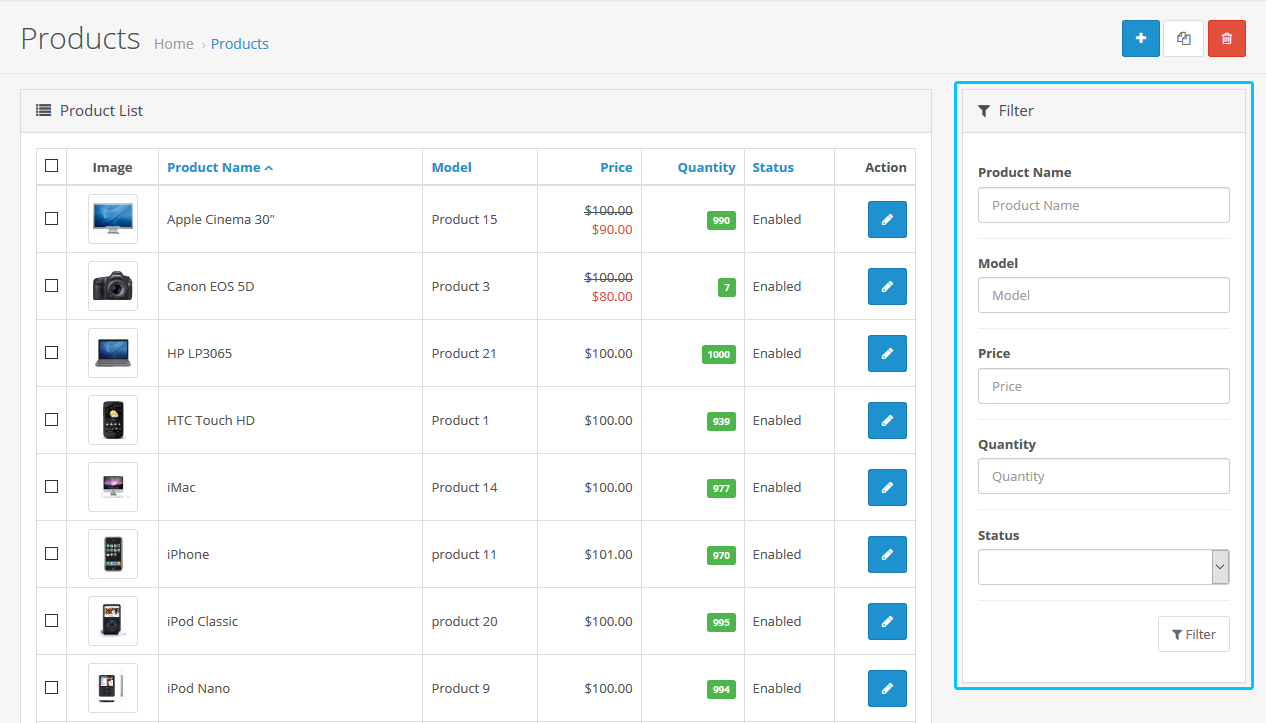
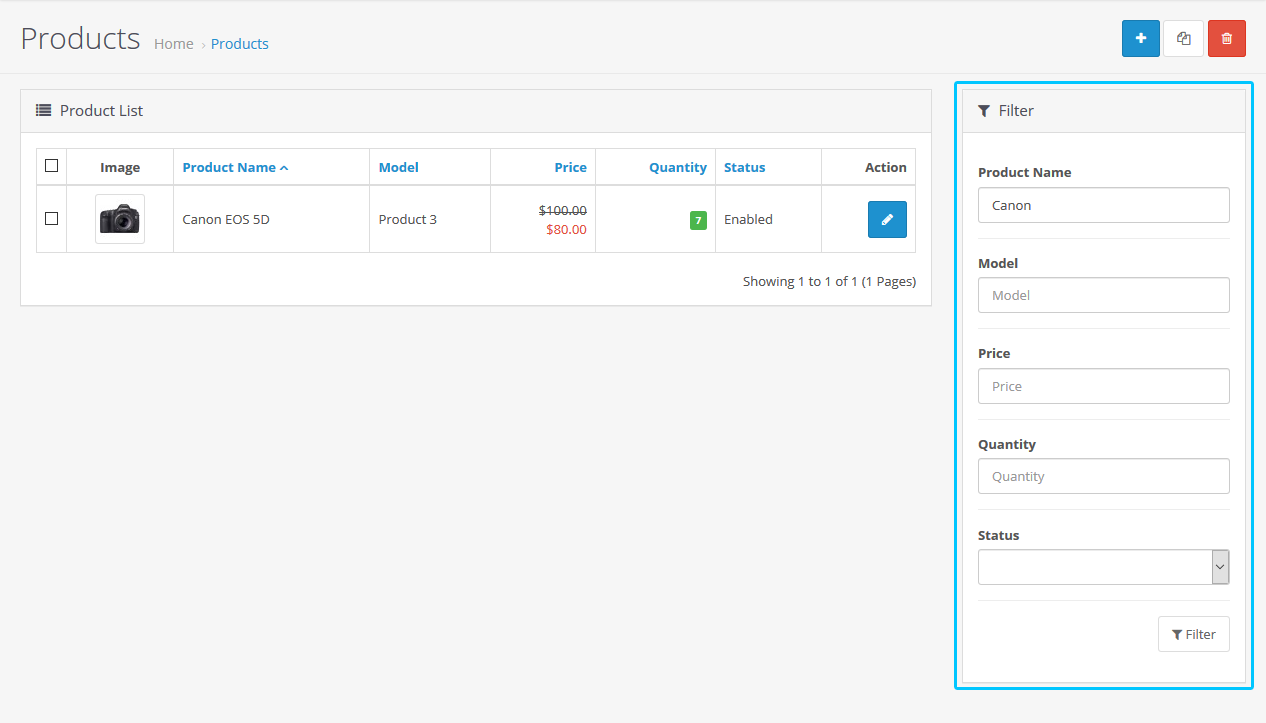
admin filter and image manager

diff --git a/docs/zh-hk/administration/filter.html b/docs/zh-hk/administration/filter.html
@@ -1,11 +1,12 @@
 ---
 layout: default
-title: "Filter - OpenCart 使用指引"
+title: "過濾 - OpenCart 使用指引"
 permalink: zh-hk/administration/filter/
 ---
-<h1>Filter</h1>
-<h2>Filter</h2>
-<p>Filter is a handy tool used regularly throughout the OpenCart administration. You may type into one of the information field for the item on the item list. Pressing Filter will &quot;filter out&quot; all the items in the list that do no match the criteria entered in the space, leaving only the items that match. With Filter, you can quickly locate any information stored in list form. Products, Categories, Customers, Reports, Orders, and more all use Filter as the main search tool to locate items in a list.</p>
-<p>For examples, if you would like to look up a product in the product list, you can use &quot;Filter&quot; as a shortcut to search for that product. This can be helpful when there is large amounts of product and you would like to edit a specific product without having to browse through every page for it. The search boxes are located in the first row above the product list.</p>
-<p class="text-center"><img src="image/admin-interface-filter.png" alt="look products filter" class="img-thumbnail" /></p>
-<p>In the screenshot above, &quot;nikon&quot; is typed into the &quot;Product Name&quot; information field. &quot;Filter&quot; only displays what matches &quot;nikon&quot;. The Nikon D300 is the only product displayed because it is the only product name containing the words &quot;nikon&quot; in this shop. If the &quot;nikon&quot; wording was present in more than one product name, the &quot;Filter&quot; button would display all of them.</p>
+<h1>過濾</h1>
+
+<p>過濾器是整個OpenCart管理中定期使用的方便工具。 您可以在項目列表中輸入項目的其中一個信息字段。 按過濾器將“過濾” 列表中所有與該空間中輸入的條件不匹配的項目，只留下匹配的項目。 使用過濾器，您可以快速查找以列表形式存儲的任何信息。 產品，類別，客戶，報告，訂單等等都使用過濾器作為主要搜索工具來查找列表中的項目。</p>
+<p>例如，如果您想在產品列表中查找產品，則可以使用“過濾器” 作為搜索該產品的捷徑。 當有大量產品時，這可能會有幫助，並且您希望編輯特定產品而無需瀏覽每個頁面。 搜索框位於產品列表上方的第一行。</p>
+<p class="text-center"><img src="image/administration/admin-filter.png" alt="Admin - Product Filter" class="img-thumbnail" /></p>
+
+<p>在上面的屏幕截圖中，將 "Canon" 輸入到<strong>產品名稱</strong>信息字段中。 <strong>過濾器</strong>只顯示與<strong>佳能</strong>相匹配的內容。 Canon EOS 5D是唯一顯示的產品，因為它是本店中唯一包含“佳能”字樣的產品名稱。 如果 "Canon" 字樣出現在多個產品名稱中，則<strong>過濾器</strong>按鈕將顯示所有這些字樣。</p>

diff --git a/docs/zh-hk/administration/image_manager.html b/docs/zh-hk/administration/image_manager.html
@@ -1,10 +1,10 @@
 ---
 layout: default
-title: "Image Manager - OpenCart 使用指引"
+title: "圖像管理器 - OpenCart 使用指引"
 permalink: zh-hk/administration/image-manager/
 ---
-<h1>Image manager</h1>
-<h2>Image manager</h2>
-<p>The Image Manager is a tool used in the administration to upload image files. Banners, product images, the store logo, and manufacturers will all need images uploaded using the Image Manager.</p>
-<p>Clicking &quot;Browse Files&quot; will open up a new window called the &quot;Image Manager&quot;. The &quot;image&quot; folder will be available in the left column, which can be found in the root folder where OpenCart was installed. You can use an FTP client to add and delete product images in your &quot;image&quot; folder. Another way to add images is to click the &quot;Upload&quot; button in the toolbar, which will open up your computer&#39;s file directory to directly add them. The images below were provided for the default products. Select an image by clicking on one, and press the &quot;Delete&quot; button in the toolbar to delete it.</p>
-<p class="text-center"><img src="image/admin-interface-manager.png" alt="adding image manager" class="img-thumbnail" /></p>
+<h1>圖像管理器</h1>
+<p>圖像管理器是用於管理上傳圖像文件的工具。 橫幅廣告，產品圖片，商店徽標和製造商都將需要使用圖片管理器上傳的圖片。</p>
+
+<p>點擊“瀏覽文件”將打開一個名為“圖像管理器”的新窗口。 “image”文件夾將位於左側列中，該列可以在安裝OpenCart的根文件夾中找到。 您可以使用FTP客戶端在“圖像”文件夾中添加和刪除產品圖像。 另一種添加圖像的方法是單擊工具欄中的“上傳”按鈕，這將打開計算機的文件目錄以直接添加它們。 下面的圖片是為默認產品提供的。 通過單擊一個圖像來選擇圖像，然後按工具欄上的“刪除”按鈕將其刪除。</p>
+<p class="text-center"><img src="image/administration/admin-image-manager.png" alt="Admin - Image Manager" class="img-thumbnail" /></p>

diff --git a/docs/zh-hk/administration/overview.html b/docs/zh-hk/administration/overview.html
@@ -16,10 +16,10 @@ permalink: zh-hk/administration/
 <div class="alert alert-success" role="alert"><i class="fas fa-check-circle"></i>將admin文件夾的名稱更改為其他名稱對於改善在線商店的安全性非常重要。 需要編輯config.php文件以指示正確的文件路徑和位置。</div>
 <p>安裝期間在自動安裝程序的<a href="zh-hk/installation/">步驟三</a>中創建用戶名和密碼。 現在可以使用此信息填寫管理員登錄詳細信息。</p>
 
-<p class="text-center"><img src="image/administration/admin-login.png" alt="admin interface login" class="img-thumbnail" /></p>
+<p class="text-center"><img src="image/administration/admin-login.png" alt="Admin Interface - Login" class="img-thumbnail" /></p>
 
-<p>在填寫正確的用戶名和密碼後，按下<strong>登錄</steonf>按鈕將引導進入OpenCart儀表板。 當使用者第一次登錄商店時，如下圖所示，儀表板會有以下區域統計數據。</p>
-<p class="text-center"><img src="image/administration/admin-dashboard.png" alt="admin interface dashboard" class="img-thumbnail" /></p>
+<p>在填寫正確的用戶名和密碼後，按下<strong>登錄</strong>按鈕將引導進入OpenCart儀表板。 當使用者第一次登錄商店時，如下圖所示，儀表板會有以下區域統計數據。</p>
+<p class="text-center"><img src="image/administration/admin-dashboard.png" alt="Admin Interface - Dashboard" class="img-thumbnail" /></p>
 
 
 <h2>通過儀表板(Dashboard)輸入管理</h2>
